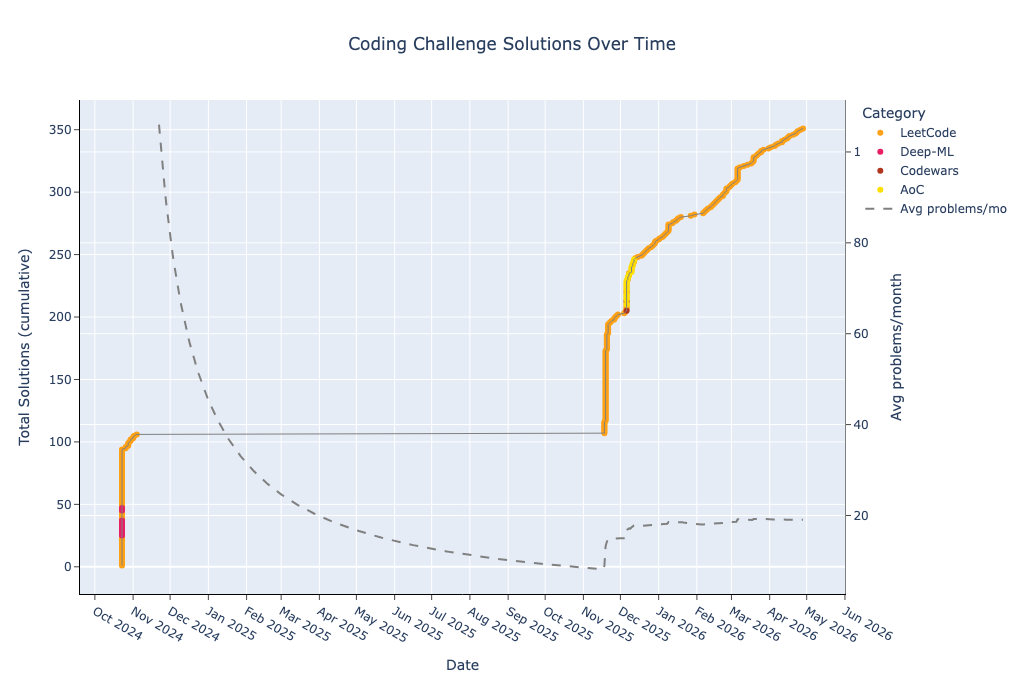
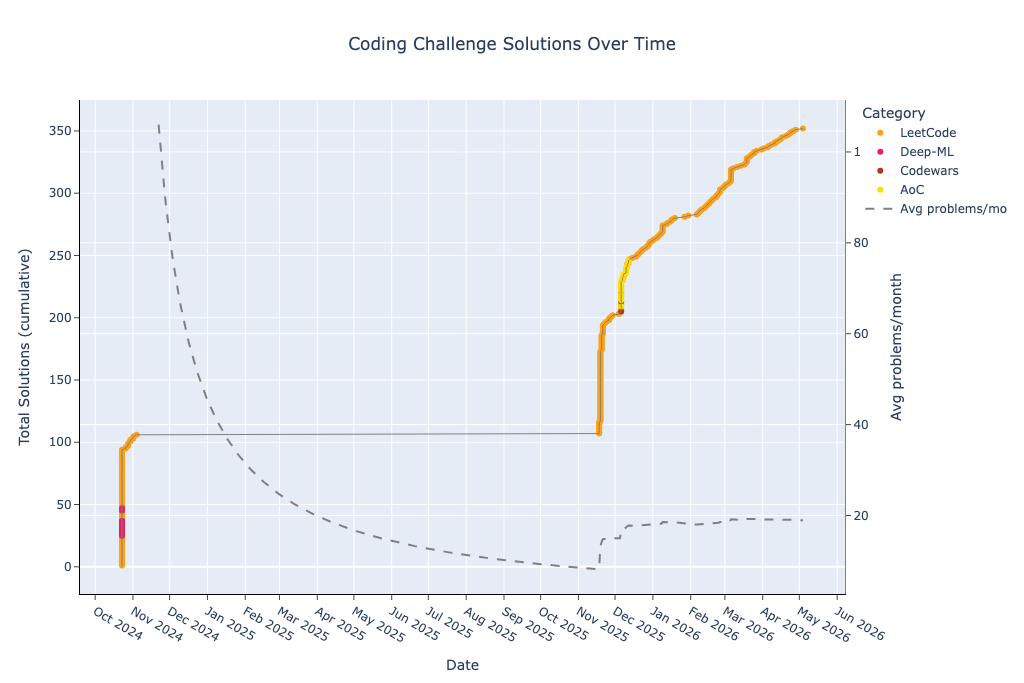
Regenerate README with LeetCode 48

diff --git a/README.md b/README.md
@@ -36,7 +36,7 @@ This repository contains a collection of coding problems solved on various platf
 | deep-ml-easy | 9 | 72 | 8 | 10 | 0 | 2 | 13 | 0 | 0 | 0 | 12 | 3 | 0 | 0 | 0 | 0 | 0 | 0 |
 | deep-ml-medium | 5 | 69 | 13 | 5 | 0 | 1 | 7 | 0 | 0 | 0 | 8 | 2 | 0 | 0 | 0 | 0 | 0 | 0 |
 | leetcode-easy | 114 | 1879 | 16 | 156 | 6 | 152 | 144 | 41 | 4 | 14 | 188 | 4 | 4 | 14 | 1 | 0 | 11 | 0 |
-| leetcode-medium | 168 | 4401 | 26 | 295 | 5 | 450 | 325 | 98 | 20 | 39 | 361 | 6 | 35 | 52 | 11 | 25 | 23 | 7 |
+| leetcode-medium | 169 | 4423 | 26 | 296 | 5 | 450 | 327 | 99 | 20 | 39 | 363 | 6 | 35 | 52 | 11 | 25 | 23 | 7 |
 | leetcode-hard | 30 | 957 | 31 | 56 | 4 | 88 | 75 | 19 | 8 | 15 | 70 | 3 | 7 | 11 | 8 | 2 | 9 | 9 |
 
 ## Recent Changes
@@ -47,6 +47,7 @@ Recently solved and added problems.
 
 | Date | Type | Challenge | Solution Code | Problem Link |
 | --- | --- | --- | --- | --- |
+| 2026-05-04 | LeetCode Medium | Rotate Image | [python](leetcode/medium/48.%20Rotate%20Image.py) | [leetcode.com](https://leetcode.com/problems/rotate-image/) |
 | 2026-04-28 | LeetCode Medium | Minimum Operations to Make a Uni-Value Grid | [python](leetcode/medium/2033.%20Minimum%20Operations%20to%20Make%20a%20Uni-Value%20Grid.py) | [leetcode.com](https://leetcode.com/problems/minimum-operations-to-make-a-uni-value-grid/) |
 | 2026-04-26 | LeetCode Medium | Detect Cycles in 2D Grid | [python](leetcode/medium/1559.%20Detect%20Cycles%20in%202D%20Grid.py) | [leetcode.com](https://leetcode.com/problems/detect-cycles-in-2d-grid/) |
 | 2026-04-24 | LeetCode Easy | Furthest Point From Origin | [python](leetcode/easy/2833.%20Furthest%20Point%20From%20Origin.py) | [leetcode.com](https://leetcode.com/problems/furthest-point-from-origin/) |
@@ -56,7 +57,6 @@ Recently solved and added problems.
 | 2026-04-20 | LeetCode Medium | Walking Robot Simulation II | [python](leetcode/medium/2069.%20Walking%20Robot%20Simulation%20II.py) | [leetcode.com](https://leetcode.com/problems/walking-robot-simulation-ii/) |
 | 2026-04-20 | LeetCode Medium | Product of Array Except Self | [python](leetcode/medium/238.%20Product%20of%20Array%20Except%20Self.py) | [leetcode.com](https://leetcode.com/problems/product-of-array-except-self/) |
 | 2026-04-20 | LeetCode Easy | Two Furthest Houses With Different Colors | [python](leetcode/easy/2078.%20Two%20Furthest%20Houses%20With%20Different%20Colors.py) | [leetcode.com](https://leetcode.com/problems/two-furthest-houses-with-different-colors/) |
-| 2026-04-17 | LeetCode Medium | Minimum Absolute Distance Between Mirror Pairs | [python](leetcode/medium/3761.%20Minimum%20Absolute%20Distance%20Between%20Mirror%20Pairs.py) | [leetcode.com](https://leetcode.com/problems/minimum-absolute-distance-between-mirror-pairs/) |
 # Advent of Code
 ### 2025
 | Day | Challenge | Time Complexity | Space Complexity | Solution Code | Problem Link |
@@ -278,6 +278,7 @@ Recently solved and added problems.
 | --- | --- | --- | --- | --- | --- |
 | 11 | Container With Most Water | O(n) | O(1) | [python](leetcode/medium/11.%20Container%20With%20Most%20Water.py) | [leetcode.com](https://leetcode.com/problems/container-with-most-water/) |
 | 33 | Search in Rotated Sorted Array | O(n) | O(1) | [python](leetcode/medium/33.%20Search%20in%20Rotated%20Sorted%20Array.py) | [leetcode.com](https://leetcode.com/problems/search-in-rotated-sorted-array/) |
+| 48 | Rotate Image | O(n*n) | O(1) | [python](leetcode/medium/48.%20Rotate%20Image.py) | [leetcode.com](https://leetcode.com/problems/rotate-image/) |
 | 49 | Group Anagrams | O(n*m) | O(n*m) | [python](leetcode/medium/49.%20Group%20Anagrams.py) | [leetcode.com](https://leetcode.com/problems/group-anagrams/) |
 | 56 | Merge Intervals | O(n) | O(1) | [python](leetcode/medium/56.%20Merge%20Intervals.py) | [leetcode.com](https://leetcode.com/problems/merge-intervals/description/) |
 | 75 | Sort Colors | O(n) | O(1) | [python](leetcode/medium/75.%20Sort%20Colors.py) | [leetcode.com](https://leetcode.com/problems/sort-colors/) |

diff --git a/CHANGES.md b/CHANGES.md
@@ -6,6 +6,7 @@ Recently solved and added problems.
 
 | Date | Type | Challenge | Solution Code | Problem Link |
 | --- | --- | --- | --- | --- |
+| 2026-05-04 | LeetCode Medium | Rotate Image | [python](leetcode/medium/48.%20Rotate%20Image.py) | [leetcode.com](https://leetcode.com/problems/rotate-image/) |
 | 2026-04-28 | LeetCode Medium | Minimum Operations to Make a Uni-Value Grid | [python](leetcode/medium/2033.%20Minimum%20Operations%20to%20Make%20a%20Uni-Value%20Grid.py) | [leetcode.com](https://leetcode.com/problems/minimum-operations-to-make-a-uni-value-grid/) |
 | 2026-04-26 | LeetCode Medium | Detect Cycles in 2D Grid | [python](leetcode/medium/1559.%20Detect%20Cycles%20in%202D%20Grid.py) | [leetcode.com](https://leetcode.com/problems/detect-cycles-in-2d-grid/) |
 | 2026-04-24 | LeetCode Easy | Furthest Point From Origin | [python](leetcode/easy/2833.%20Furthest%20Point%20From%20Origin.py) | [leetcode.com](https://leetcode.com/problems/furthest-point-from-origin/) |
@@ -15,4 +16,3 @@ Recently solved and added problems.
 | 2026-04-20 | LeetCode Medium | Walking Robot Simulation II | [python](leetcode/medium/2069.%20Walking%20Robot%20Simulation%20II.py) | [leetcode.com](https://leetcode.com/problems/walking-robot-simulation-ii/) |
 | 2026-04-20 | LeetCode Medium | Product of Array Except Self | [python](leetcode/medium/238.%20Product%20of%20Array%20Except%20Self.py) | [leetcode.com](https://leetcode.com/problems/product-of-array-except-self/) |
 | 2026-04-20 | LeetCode Easy | Two Furthest Houses With Different Colors | [python](leetcode/easy/2078.%20Two%20Furthest%20Houses%20With%20Different%20Colors.py) | [leetcode.com](https://leetcode.com/problems/two-furthest-houses-with-different-colors/) |
-| 2026-04-17 | LeetCode Medium | Minimum Absolute Distance Between Mirror Pairs | [python](leetcode/medium/3761.%20Minimum%20Absolute%20Distance%20Between%20Mirror%20Pairs.py) | [leetcode.com](https://leetcode.com/problems/minimum-absolute-distance-between-mirror-pairs/) |
